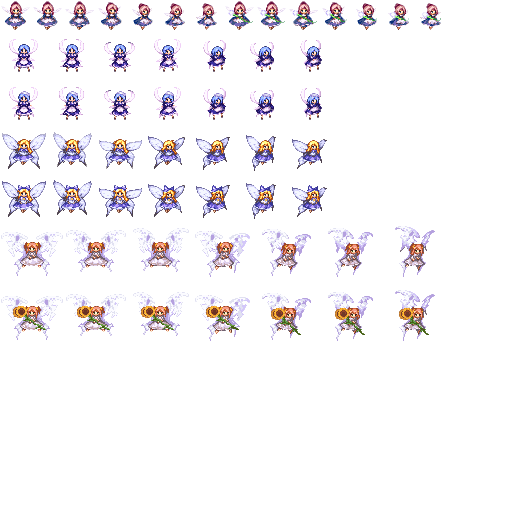
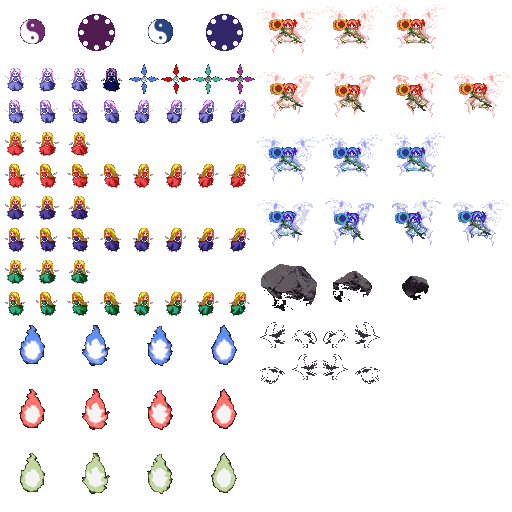
update: enemy image

diff --git a/src/js/object/enemy.js b/src/js/object/enemy.js
@@ -2,6 +2,9 @@
 
 /* 敵オブジェクト */
 
+// デフォの敵タイプ
+var DEFAULT_ENEMY_TYPE = 3 * 2;
+
 // 基底クラス
 var VectorBaseObject = require('./vector_base');
 var Util = require('../util');
@@ -17,7 +20,7 @@ var Enemy = function(scene) {
 	VectorBaseObject.apply(this, arguments);
 
 	// 敵のスプライト上の位置
-	this.indexX = 0; this.indexY = 0;
+	this.indexX = 0; this.indexY = 2;
 };
 
 // 基底クラスを継承
@@ -46,6 +49,9 @@ Enemy.prototype.init = function(param) {
 
 	// どの弾を撃つ設定を適用するか
 	this.shotCountIndex = 0;
+
+	// 敵の画像種類
+	this.indexY = param.type ? param.type * 2 : DEFAULT_ENEMY_TYPE;
 };
 
 // フレーム処理

diff --git a/src/js/enemy/stage1.js b/src/js/enemy/stage1.js
@@ -1,6 +1,13 @@
 'use strict';
 var EnemiesParams = [ ] ;
 
+var random = function(num) {
+	var rnd = Math.floor( Math.random() * num + 1);
+	console.log(rnd);
+	return rnd;
+}
+
+
 /*
 // テスト敵
 EnemiesParams.push({
@@ -27,6 +34,7 @@ EnemiesParams.push({
 
 for( var i = 0; i < 6 ; i++ ) {
 	EnemiesParams.push({
+		'type': random(3),
 		'appear_frame': 100 + i * 15,
 		'x': 50 + i * 20,
 		'y': 0,
